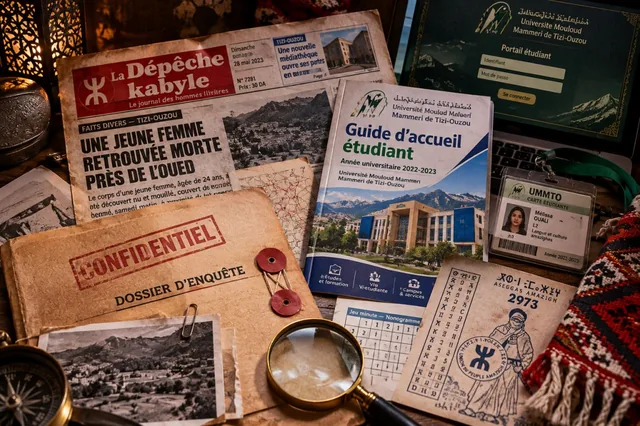
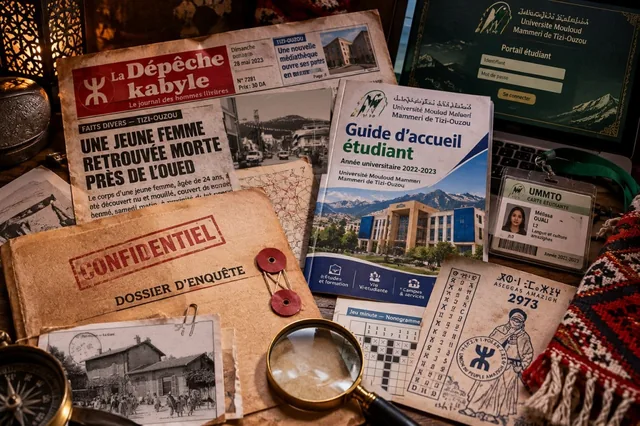
Enquête en Kabylie : visuel retouché, plus propre et plus crédible
- vrai nonogramme (indices justes, grille à moitié résolue) redessiné en
  perspective à la place de la fausse grille à chiffres
- photo du journal remplacée par une vraie photo du centre de Tizi Ouzou
  (« Centre ville de Tizi Ouzou (Algérie) », Magharebia, CC BY 2.0)
- tirage ancien remplacé par la carte postale « Gare de Tizi Ouzou »
  (vers 1900, domaine public), via Wikimedia Commons
- crédits photographiques ajoutés aux mentions légales, texte alternatif
  et README mis à jour

Claude-Session: https://claude.ai/code/session_014WRPcxw2sYEVSuiyG1KfSe

Changed region(s): [[0.0625, 0.7324, 0.3438, 1.0], [0.3438, 0.2136, 0.5312, 0.4272], [0.5312, 0.7324, 0.6562, 0.9155]]

diff --git a/mentions-legales.html b/mentions-legales.html
@@ -24,9 +24,9 @@
   <link rel="apple-touch-icon" href="assets/images/apple-touch-icon.png">
   <link rel="preload" href="assets/fonts/fraunces-opsz.woff2" as="font" type="font/woff2" crossorigin>
   <link rel="preload" href="assets/fonts/instrument-sans.woff2" as="font" type="font/woff2" crossorigin>
-  <link rel="stylesheet" href="css/style.css?v=3">
+  <link rel="stylesheet" href="css/style.css?v=4">
   <noscript><link rel="stylesheet" href="css/nojs.css"></noscript>
-  <script src="js/main.js?v=3" defer></script>
+  <script src="js/main.js?v=4" defer></script>
 </head>
 <body>
   <a class="skip-link" href="#contenu">Aller au contenu</a>
@@ -89,6 +89,7 @@
       <p>Sauf mention contraire, ces contenus sont la propriété d’Emeline de Hartoulari EI, exploitant sous le nom commercial Gallup &amp; Locard.</p>
       <p>Toute reproduction, représentation, diffusion, adaptation ou exploitation, totale ou partielle, sans autorisation écrite préalable est interdite, sauf dans les cas prévus par la loi.</p>
       <p>Certains visuels présentés dans les projets peuvent intégrer des éléments appartenant à des tiers, notamment des photographies, pictogrammes, fonds cartographiques ou autres ressources graphiques. Ces éléments restent la propriété de leurs titulaires respectifs et sont utilisés conformément aux licences ou autorisations applicables.</p>
+      <p>Crédits photographiques&nbsp;: le visuel d’ambiance du projet «&nbsp;Enquête en Kabylie&nbsp;» intègre deux photographies issues de Wikimedia Commons&nbsp;: «&nbsp;Centre ville de Tizi Ouzou (Algérie)&nbsp;», Magharebia, licence <a href="https://creativecommons.org/licenses/by/2.0/deed.fr" rel="noopener">CC BY 2.0</a>, et «&nbsp;Gare de Tizi Ouzou&nbsp;», carte postale ancienne (vers 1900), domaine public. Ces photographies ont été passées en noir et blanc et intégrées en perspective dans le visuel.</p>
       <p>Polices de caractères&nbsp;: Fraunces et Instrument Sans, distribuées sous licence SIL Open Font License 1.1.</p>
 
       <h2>Données personnelles</h2>

diff --git a/projets/enquete-en-kabylie.html b/projets/enquete-en-kabylie.html
@@ -82,7 +82,7 @@
         <picture>
           <source type="image/webp" srcset="../assets/images/kabylie/kabylie-visuel-640.webp 640w, ../assets/images/kabylie/kabylie-visuel-960.webp 960w, ../assets/images/kabylie/kabylie-visuel-1280.webp 1280w" sizes="(min-width: 64em) 61vw, 100vw">
           <img src="../assets/images/kabylie/kabylie-visuel.jpg" width="1280" height="853" fetchpriority="high" decoding="async"
-               alt="Visuel d’ambiance : sur une table, le journal « La Dépêche kabyle » ouvert sur un fait divers, un dossier d’enquête marqué « Confidentiel », un guide d’accueil étudiant, une carte d’étudiant, une loupe, des photographies anciennes de villages de montagne et une page en tifinagh.">
+               alt="Visuel d’ambiance : sur une table, le journal « La Dépêche kabyle » titrant sur un fait divers à Tizi-Ouzou, avec une photo du centre-ville, un dossier d’enquête marqué « Confidentiel », un guide d’accueil étudiant, une carte d’étudiant, un nonogramme à moitié résolu, une loupe, une boussole, une ancienne carte postale de la gare de Tizi-Ouzou et un calendrier amazigh en tifinagh.">
         </picture>
         <figcaption>Visuel d’ambiance · projet en conception</figcaption>
       </figure>

diff --git a/README.md b/README.md
@@ -175,7 +175,7 @@ Un projet = **une page** dans le dossier `projets/` + **une carte** dans `projet
 | `gaule/gaule-itineraire` | page guide / calendrier | quelques pixels retirés en bas (ligne de texte coupée) |
 | `gaule/gaule-autun` | page « Avtvn » | aucun (image entière) |
 | `gaule/gaule-quiz` | écran de quiz « Question #4 » | aucun (image entière) |
-| `kabylie/kabylie-visuel` | visuel d’ambiance, **extrait de la maquette verte** (original non fourni) | recadrage sur la photo, sans le panneau de texte ni la légende — **à remplacer par le visuel original en haute définition** |
+| `kabylie/kabylie-visuel` | visuel d’ambiance fourni (1280 × 853) | retouché pour plus de crédibilité : vrai nonogramme redessiné en perspective ; photo du journal remplacée par « Centre ville de Tizi Ouzou (Algérie) », Magharebia, CC BY 2.0 ; tirage ancien remplacé par la carte postale « Gare de Tizi Ouzou » (vers 1900, domaine public), via Wikimedia Commons — crédits dans les mentions légales |
 | `kabylie/tissage.svg` | frise tissée de la maquette bleue | redessinée en vecteur point par point (l’extrait de la maquette ne fait que 45 px de large), couleurs accordées au thème vert |
 
 Aucun contenu d’image n’a été modifié (ni redessiné, ni retouché).
